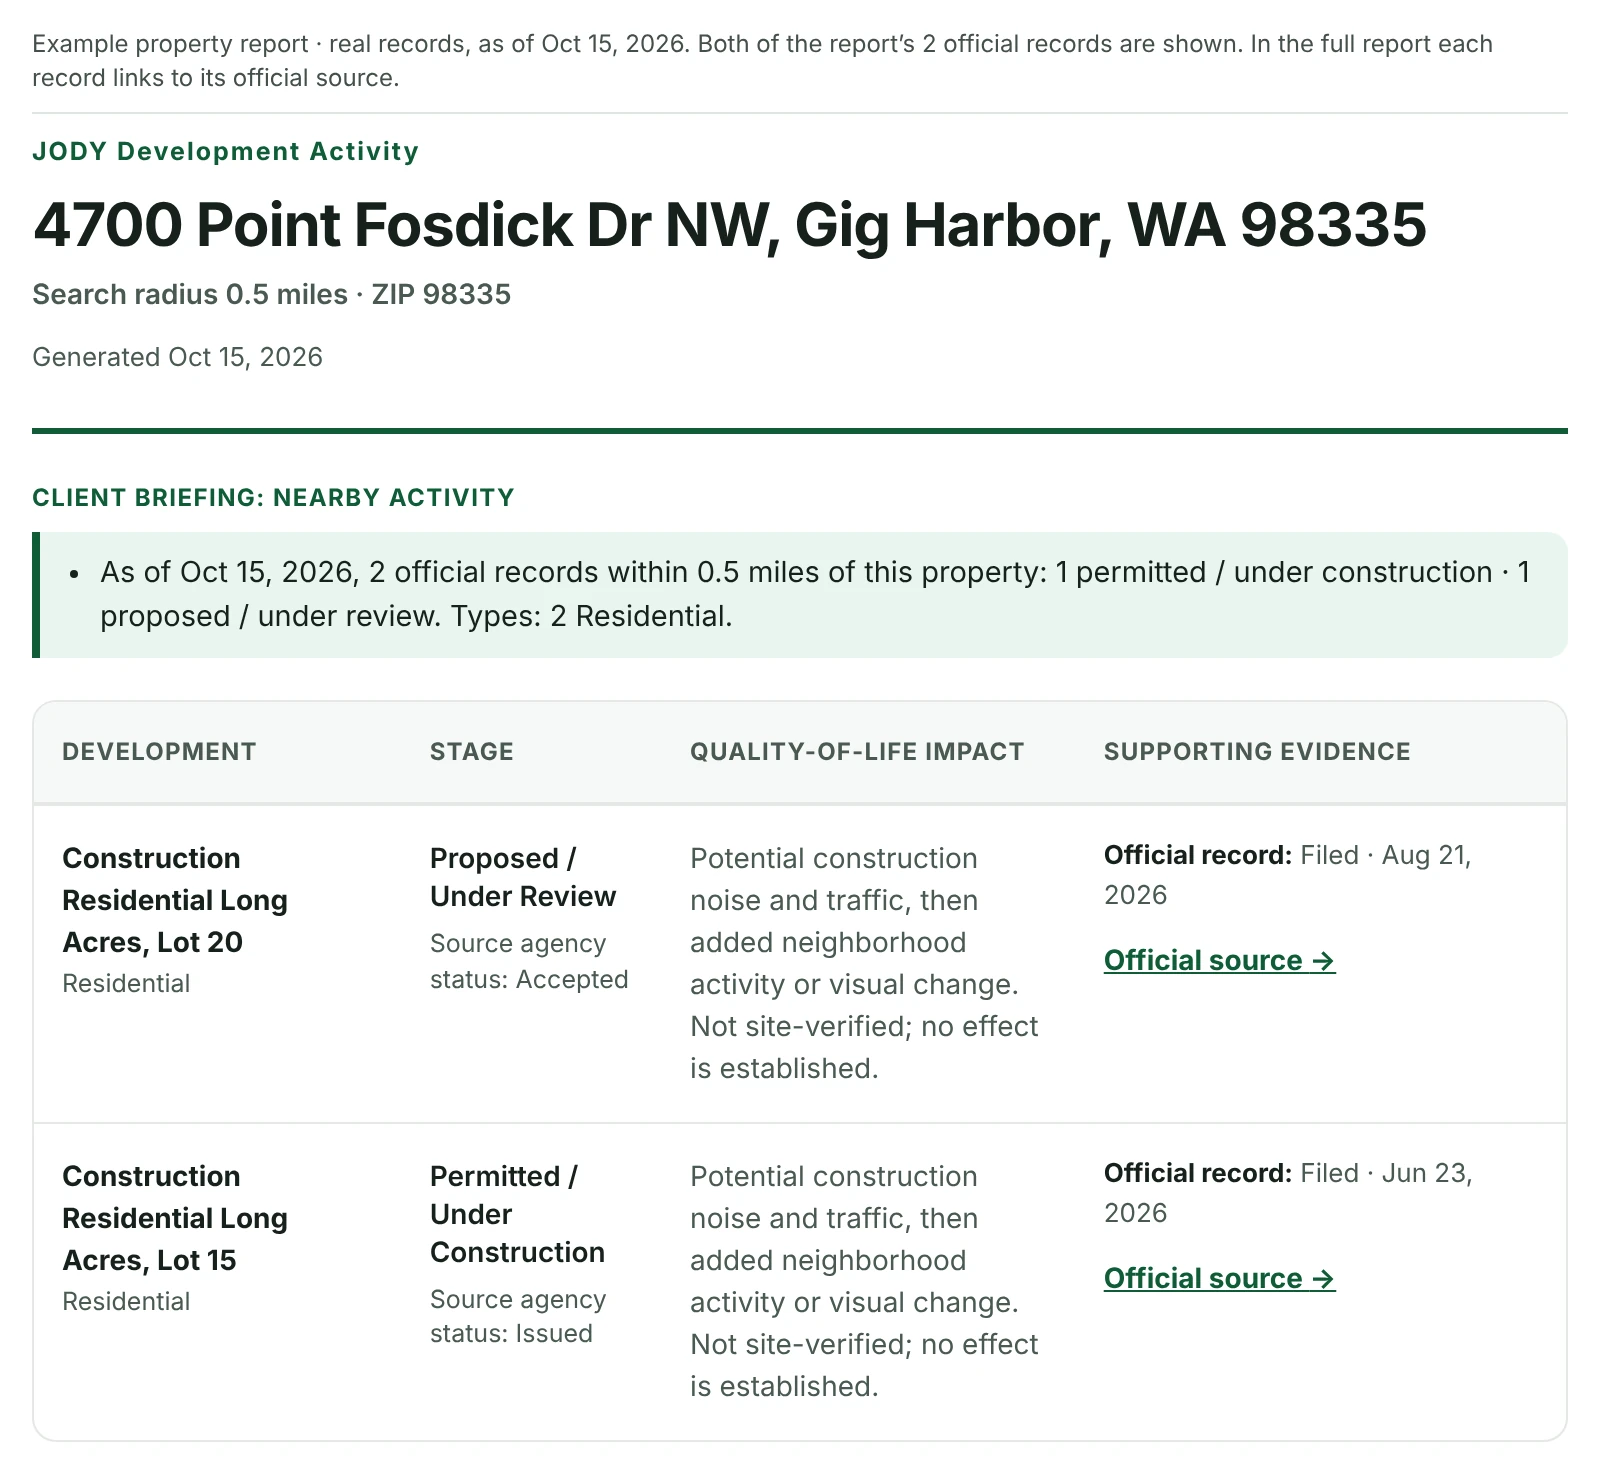
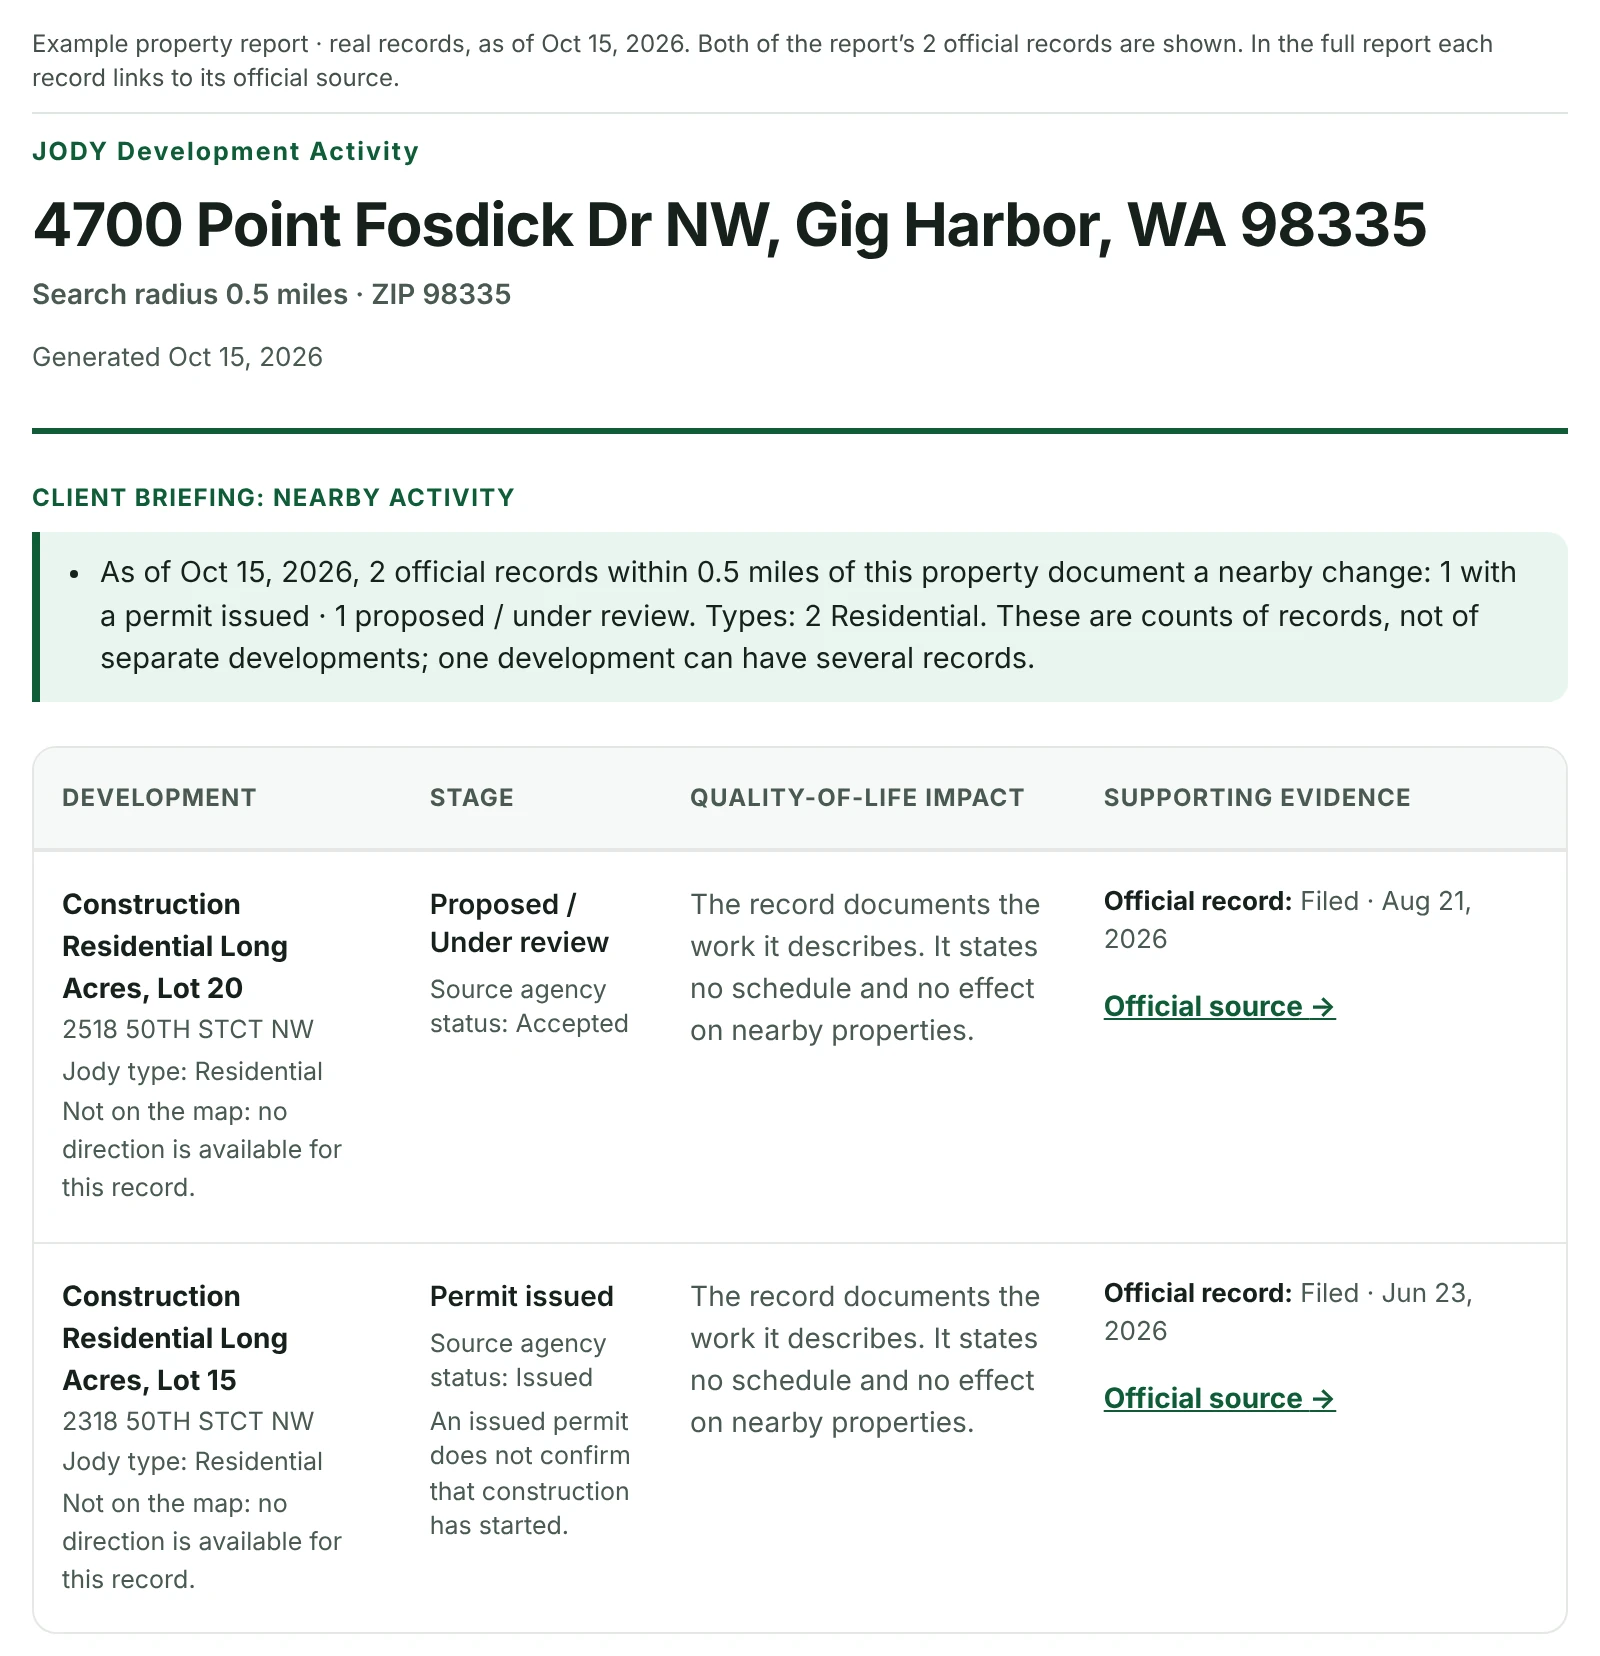
Regenerate the homepage example-report image from the national-7 view
The view now words stages itself ('Permit issued', 'Proposed / Under review') and
gives a report saved before national-7 the scope-only note instead of a Type
sentence, so the committed image, its receipt and the homepage's size and alt
text are rebuilt with scripts/build-home-showcase-preview.mjs.

Claude-Session: https://claude.ai/code/session_01C2QfWcvq2vksaR87qfUaax

diff --git a/index.html b/index.html
@@ -79,11 +79,11 @@
         <a class="home-index__enterprise-cta" id="homeEnterpriseCta" href="development-activity.html">Explore Agent Reports →</a>
       </div>
       <picture class="home-index__report-picture">
-        <source media="(max-width: 560px)" srcset="assets/home-report-example-mobile.webp?v=20261015" width="688" height="2440">
-        <img src="assets/home-report-example-desktop.webp?v=20261015"
+        <source media="(max-width: 560px)" srcset="assets/home-report-example-mobile.webp?v=20261102" width="688" height="2888">
+        <img src="assets/home-report-example-desktop.webp?v=20261102"
              class="home-index__report-preview"
-             alt="Example property report for 4700 Point Fosdick Dr NW, Gig Harbor, WA 98335, as of Oct 15, 2026: 2 official records within 0.5 miles, 1 permitted or under construction and 1 proposed. Both are residential, each shown with its stage and a potential quality-of-life consideration that is not site-verified."
-             width="1600" height="1464" decoding="async" loading="lazy">
+             alt="Example property report for 4700 Point Fosdick Dr NW, Gig Harbor, WA 98335, as of Oct 15, 2026: 2 official records within 0.5 miles, 1 with a permit issued and 1 proposed. Both are residential, each shown with its stage, the agency's own status and what the record documents."
+             width="1600" height="1656" decoding="async" loading="lazy">
       </picture>
     </section>
 
